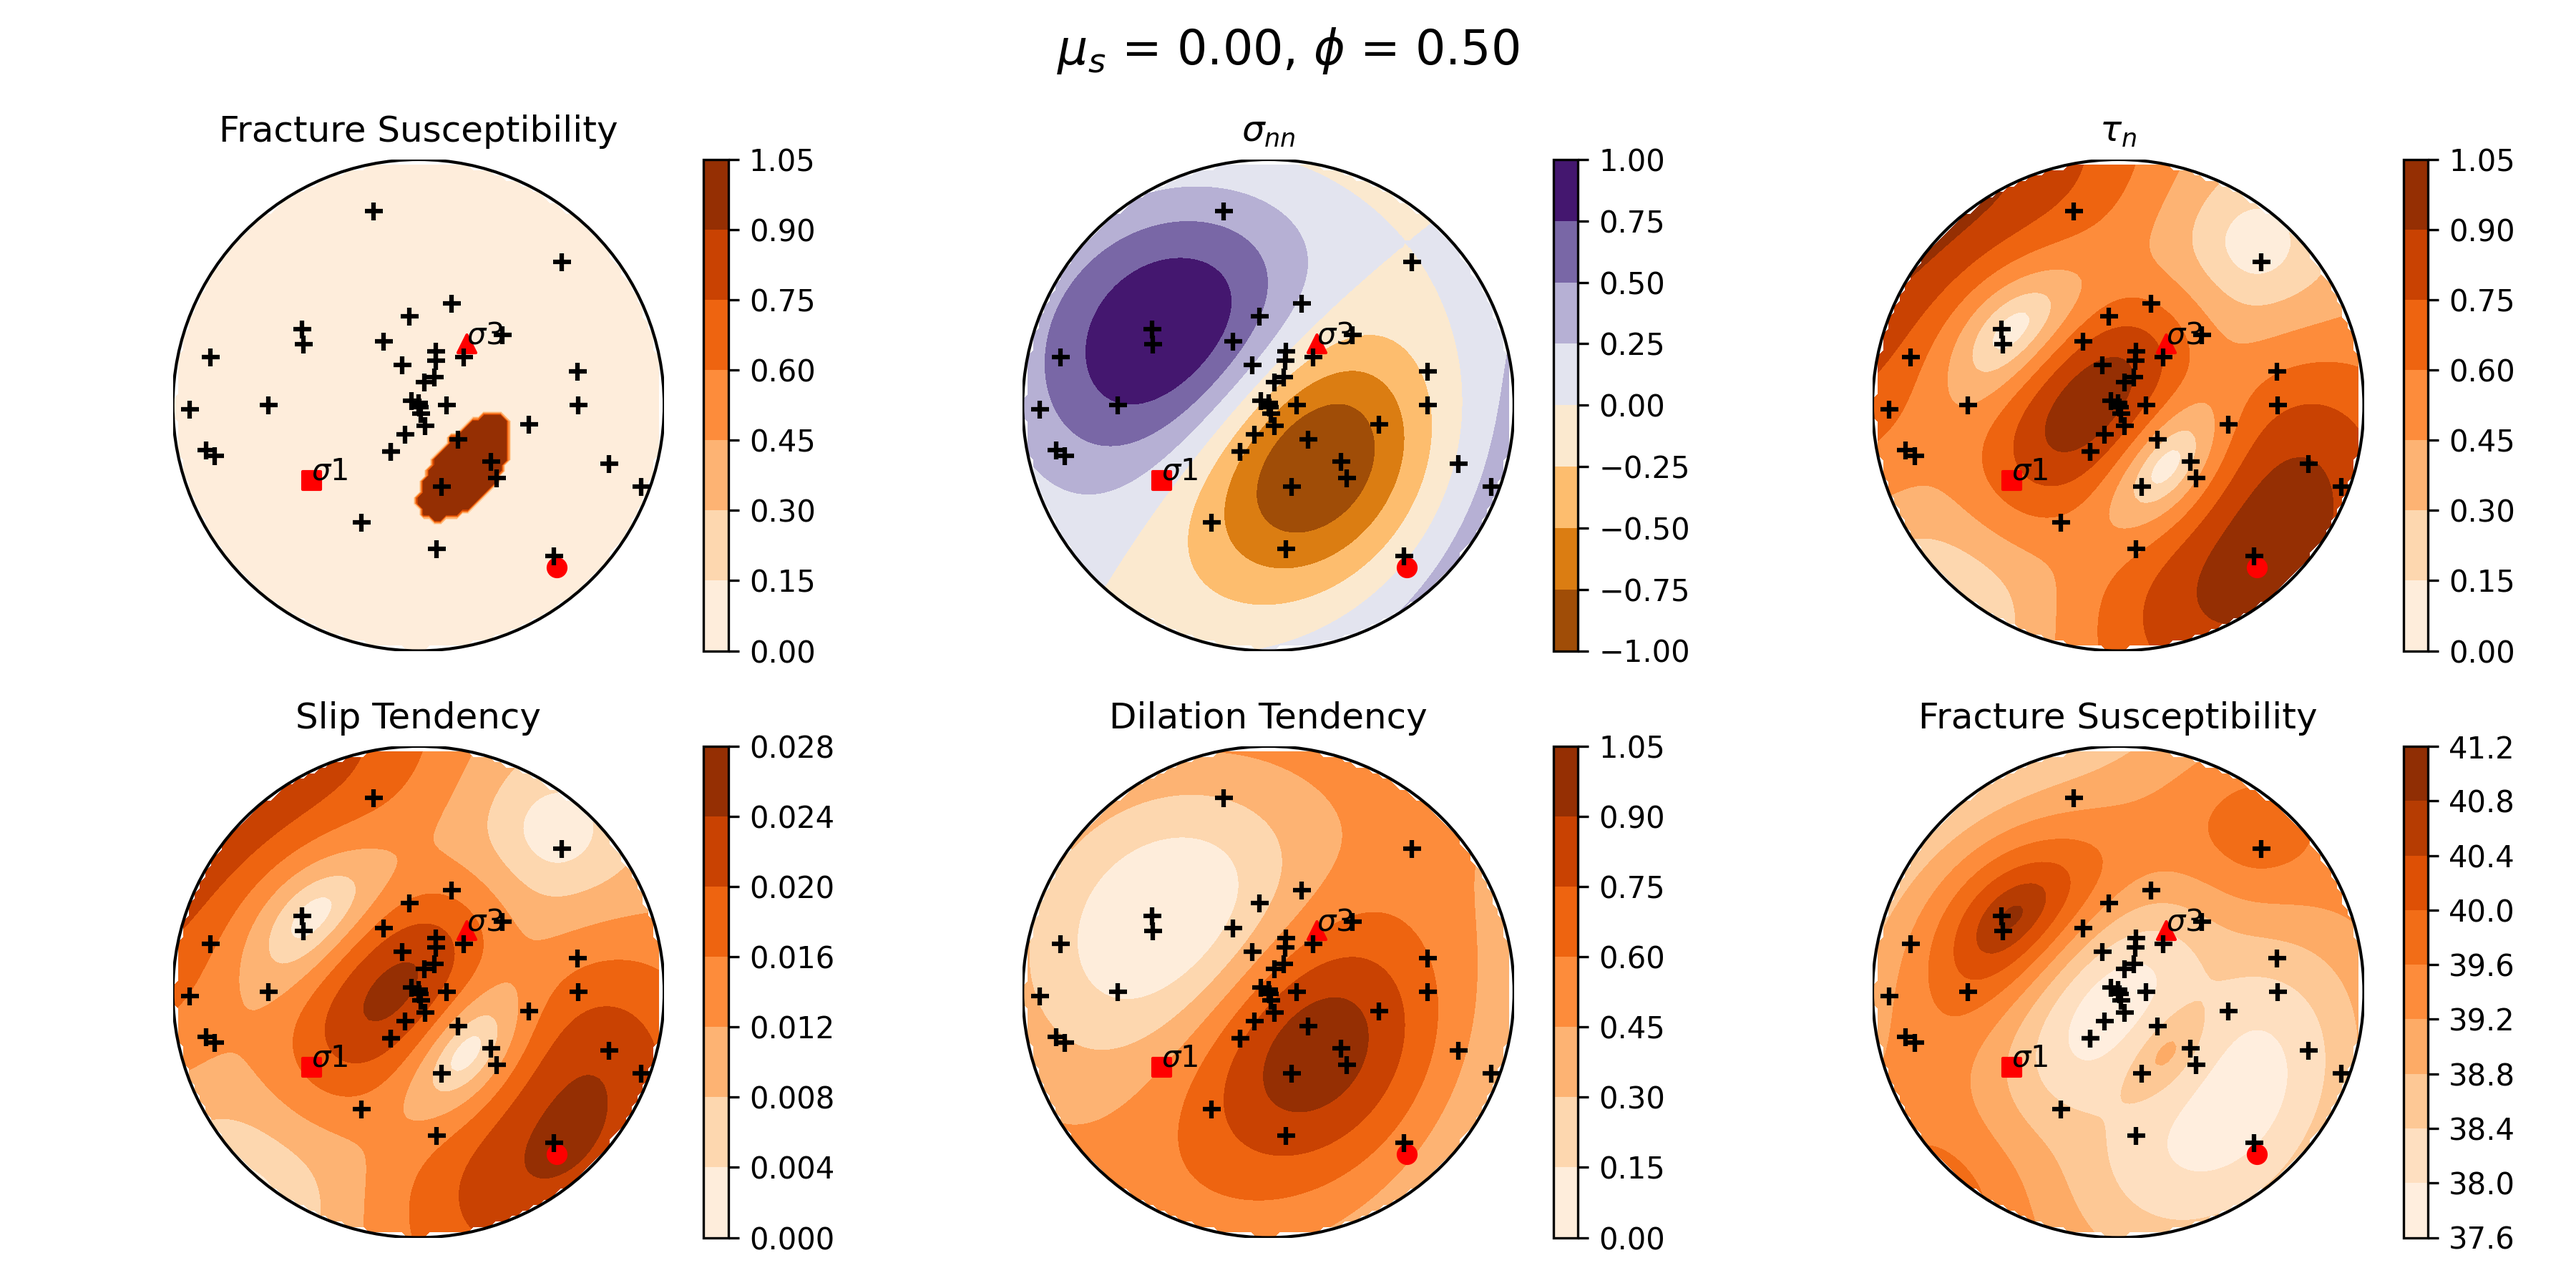
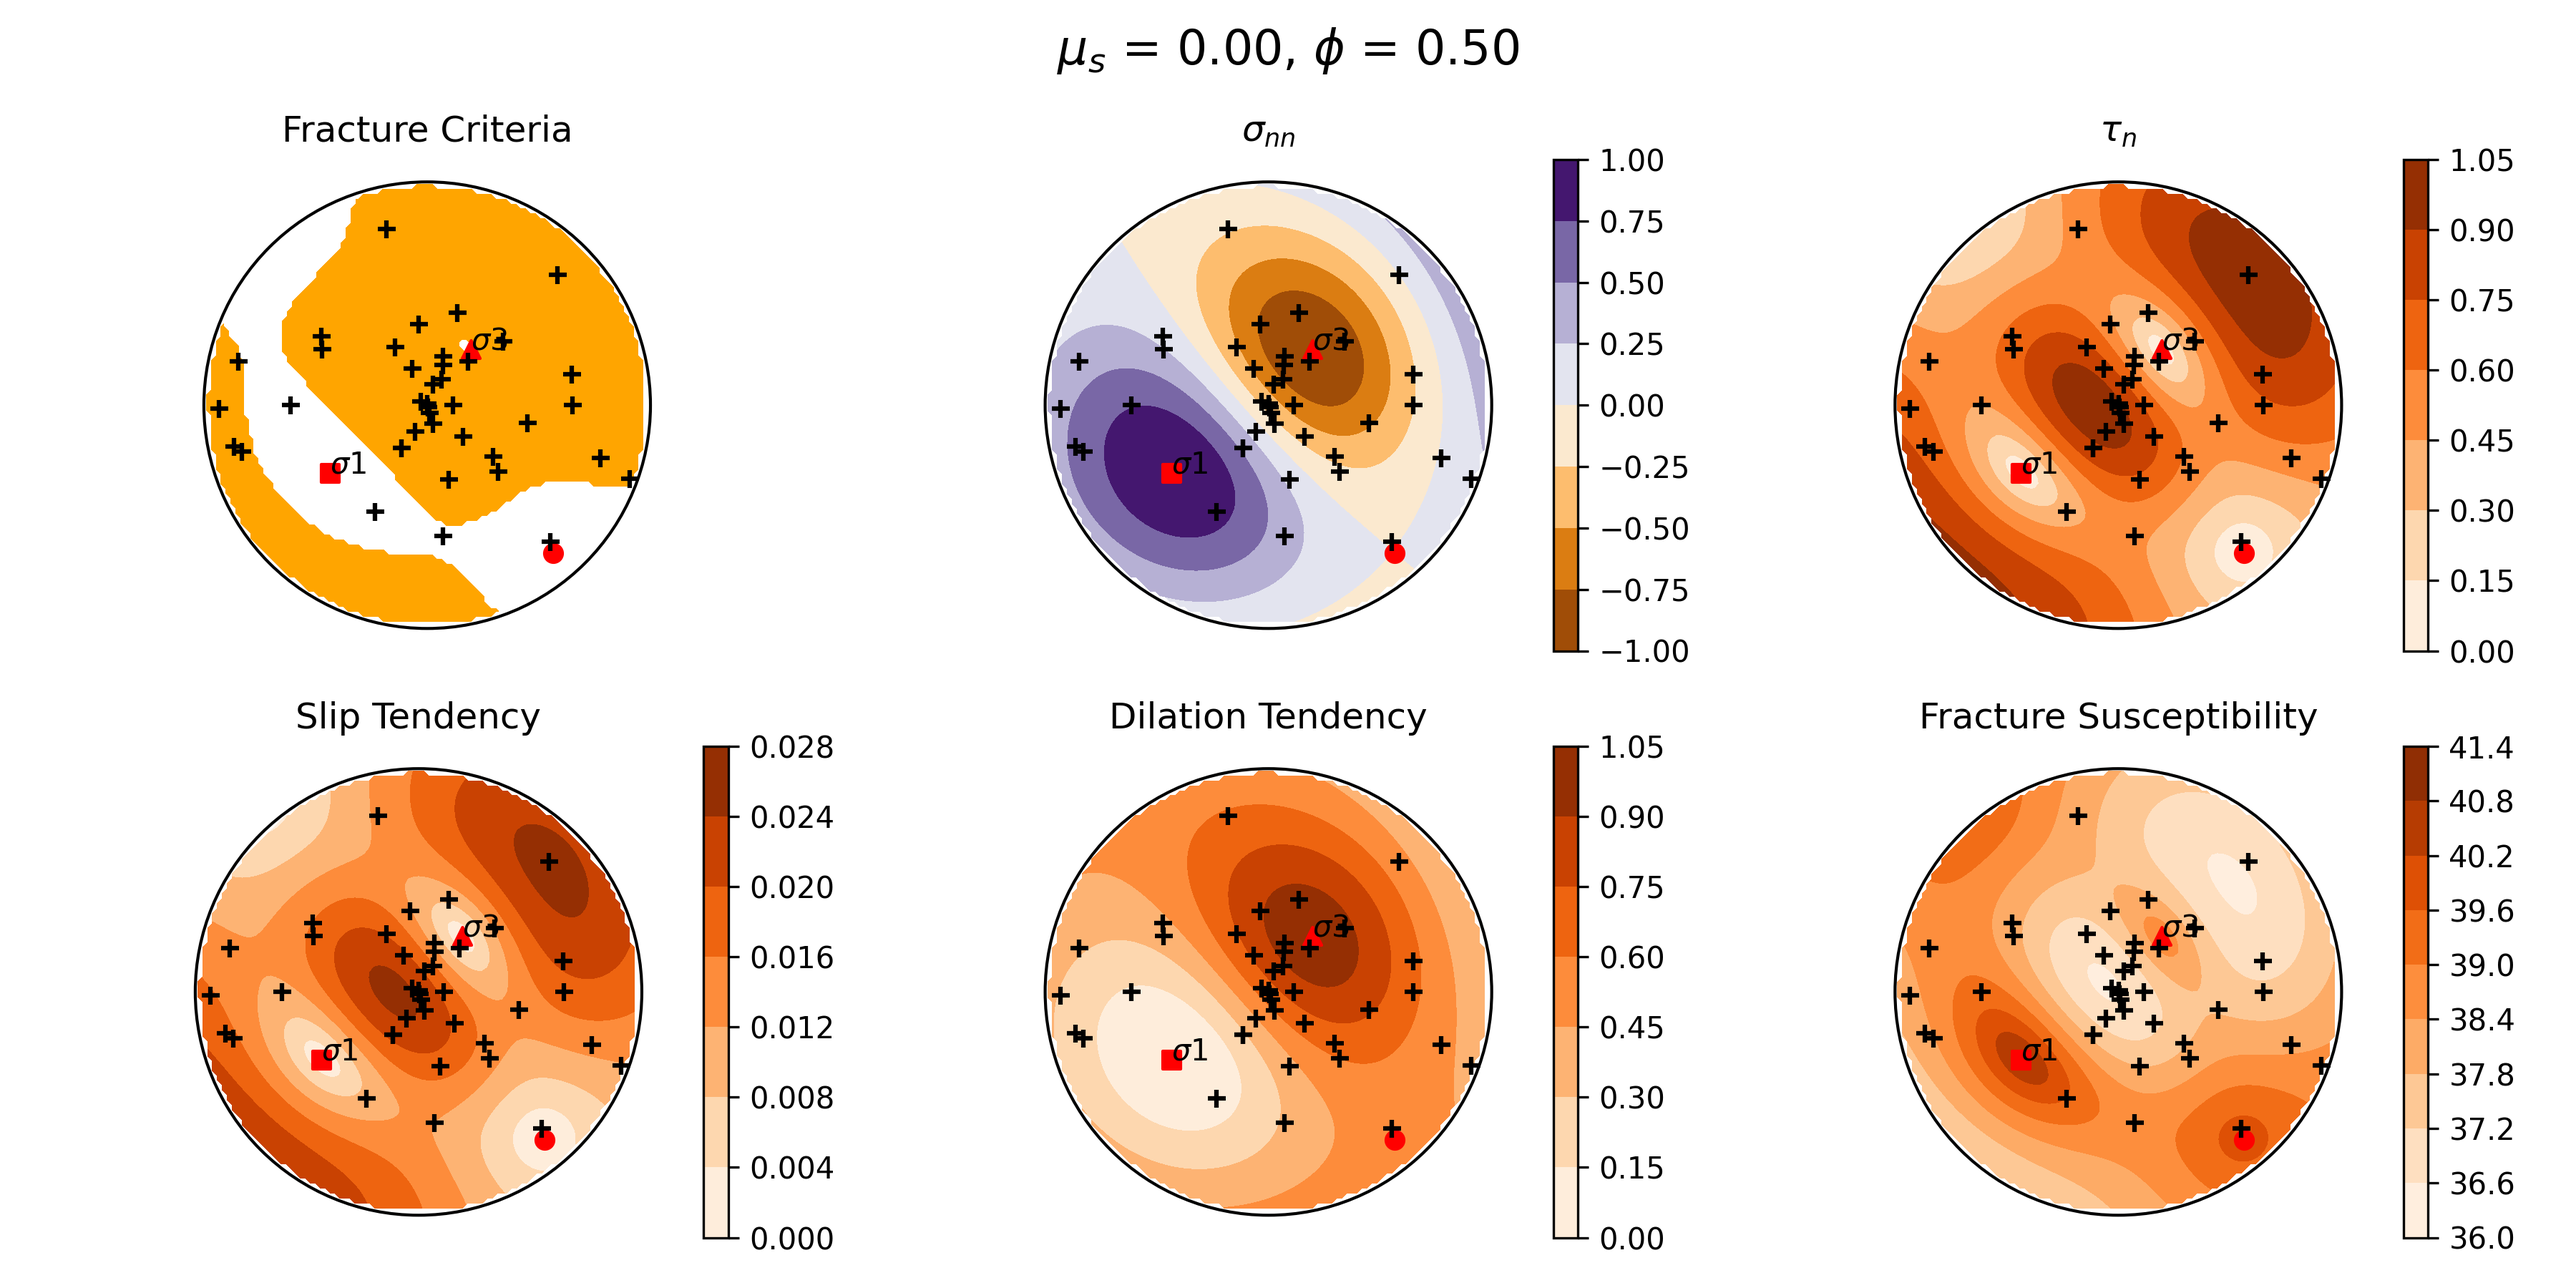
Fix README

diff --git a/src/stress_state_plot/plot2.py b/src/stress_state_plot/plot2.py
@@ -498,6 +498,7 @@ class Plot:
         directions=None,
         norm_zero=True,
         use_contourf=False,
+        show_cbar=True,
     ):
 
         cmap = colormap or "PuOr"
@@ -505,6 +506,7 @@ class Plot:
 
         if cmap == "Binary":
             cmap = matplotlib.colors.ListedColormap(['white', 'orange'])
+            show_cbar = False
 
         if use_contourf:
             splot = ax.contourf(
@@ -540,7 +542,8 @@ class Plot:
                 ax.scatter(x1, y1, marker="o", color="black")
 
         ax.add_patch(stereonet_border)
-        self.fig.colorbar(splot, ax=ax, spacing="proportional")
+        if show_cbar:
+            self.fig.colorbar(splot, ax=ax, spacing="proportional")
         return splot, s1, s2, s3, t1, t3
 
 

diff --git a/README.md b/README.md
@@ -40,6 +40,8 @@ Options:
   --sigma3_orientation_and_sigma1_direction TEXT
                                   Set orientations only via single
                                   sigma3_orientationa and direction of sigma1
+  --tau_f FLOAT                   Cohesion factor
+  --k_f FLOAT                     Coefficient of friction
   --fractures TEXT                Path to the input file with fractures.
   --xlsx_path TEXT                Path to the output xlsx file with report.
   --png_path TEXT                 Path to the output xlsx file with report.
@@ -51,23 +53,23 @@ Options:
 Example of usage:
 
 ```
-stress_state_plot --sigma1_orientation_and_sigma3_direction="125 34 322" --pressure=-40 --mu_sigma=0 --tau=1 --png_path=/tmp/fig.png
+stress_state_plot --sigma1_orientation_and_sigma3_direction="125 34 322" --pressure=-40 --mu_sigma=0 --tau=1 --tau_f=0.3 --k_f=0.3 --png_path=/tmp/fig.png
 ```
 
 It is possible to plot set of fractures against given stress state:
 
 ```
-stress_state_plot --sigma1_orientation_and_sigma3_direction="125 34 322" --pressure=-40 --mu_sigma=0 --tau=1 --fractures=fractures.txt --png_path=/tmp/fig.png
+stress_state_plot --sigma1_orientation_and_sigma3_direction="125 34 322" --pressure=-40 --mu_sigma=0 --tau=1 --tau_f=0.3 --k_f=0.3 --fractures=fractures.txt --png_path=/tmp/fig.png
 ```
 
 <img src="figs/fig.png" width="640" />
 
-<img src="figs/fig_morh.jpg" width="640" />
+<img src="figs/fig_morh.png" width="640" />
 
 Example of usage in interactive mode:
 
 ```
-stress_state_plot --sigma1_orientation_and_sigma3_direction="125 34 322" --pressure=-40 --mu_sigma=0 --tau=1 --fractures=fractures.txt --gui
+stress_state_plot --sigma1_orientation_and_sigma3_direction="125 34 322" --pressure=-40 --mu_sigma=0 --tau=1 --tau_f=0.3 --k_f=0.3 --fractures=fractures.txt --gui
 ```
 
 <img src="figs/interactive.gif" width="640" />
